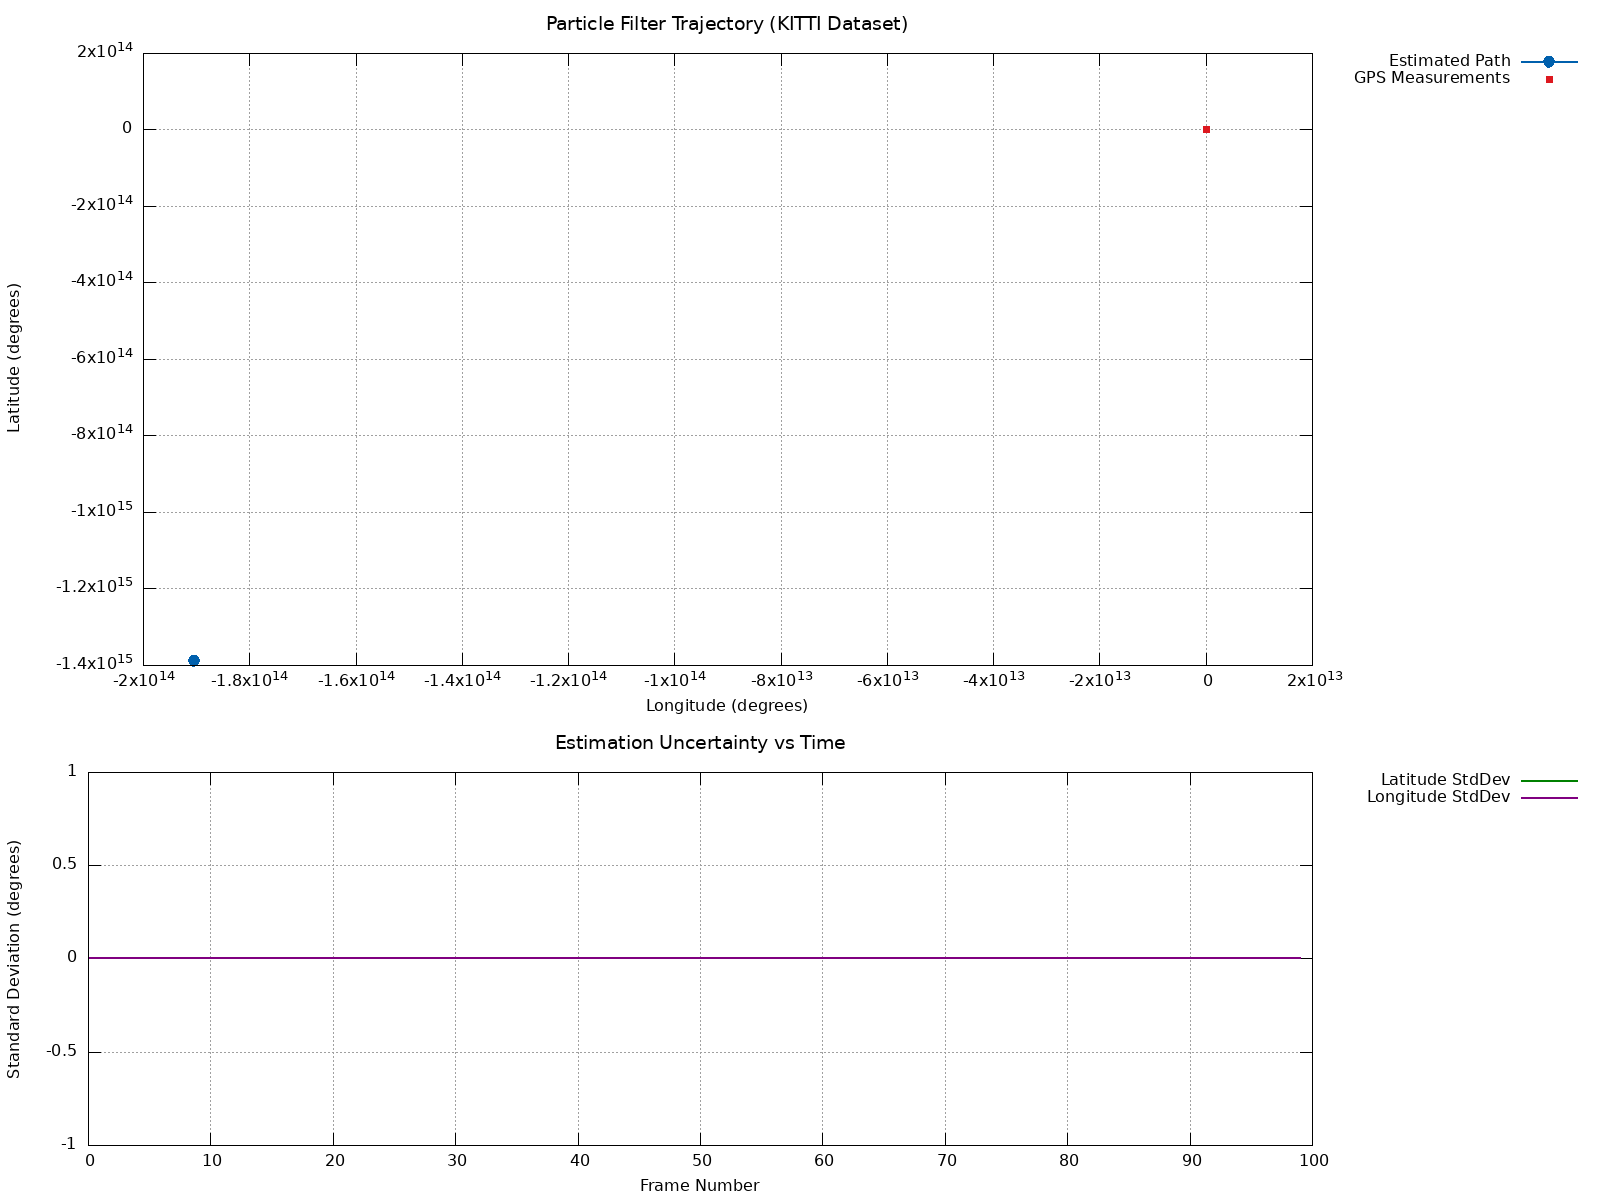
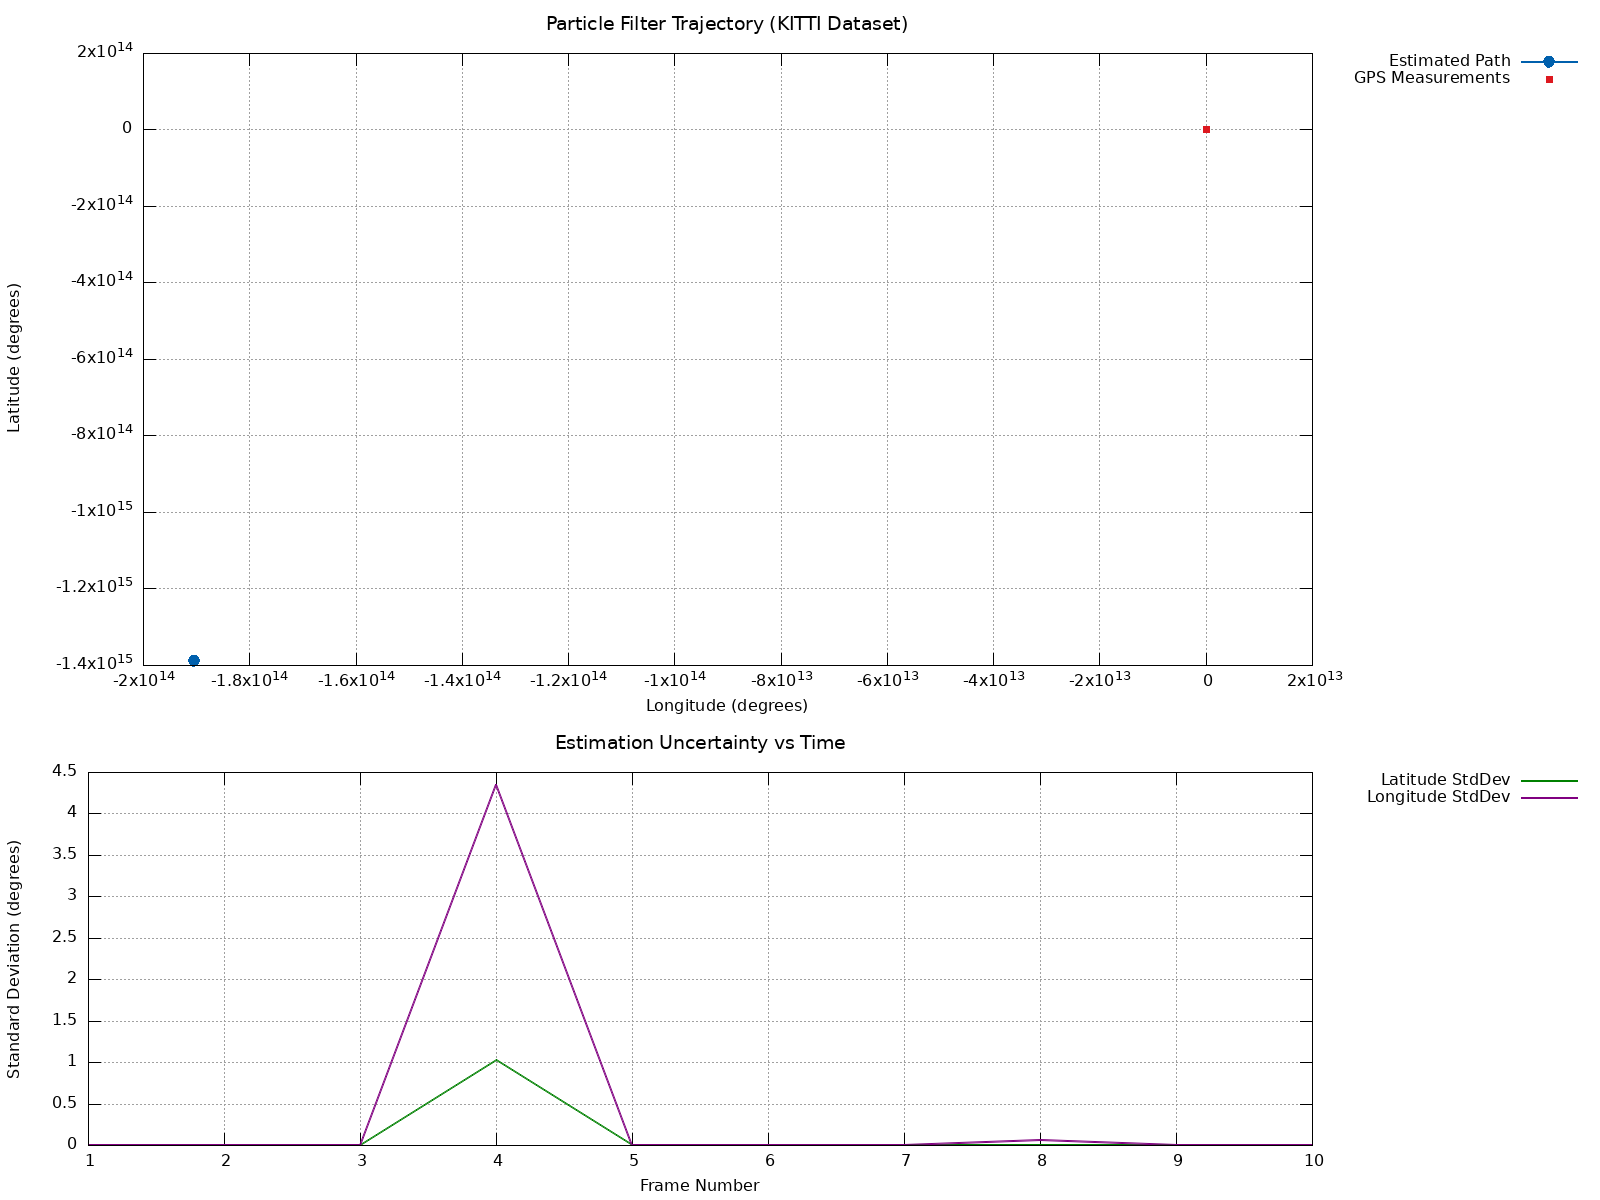
10组1次滤波

diff --git a/src/main.cpp b/src/main.cpp
@@ -190,7 +190,8 @@ int main(int argc, char** argv){
             << Pos(0) << " " << Pos(1) << "\n";
 
             // 保存误差数据
-            error_file << std::setprecision(6) << n << " " << sqrt(xv) << " " << sqrt(yv) << " " << timestamp << "\n";
+            error_file << std::setprecision(6) << frame_count << " " 
+               << sqrt(xv) << " " << sqrt(yv) << " " << timestamp << "\n";
             std::cout << "\nProcessing complete!" << std::endl;
 
             // 短暂延时，模拟实际系统的循环时间
@@ -230,12 +231,11 @@ int main(int argc, char** argv){
     
         // 执行 gnuplot 绘图命令
         system("cd ../results && gnuplot plot_commands.gp");       
-    }
 
 } catch(const std::exception& e) {
     std::cerr << "Error: " << e.what() << std::endl;
     return 1;
-}catch(smc::exception e) {
+} catch(smc::exception e) {
         cerr << e;
         exit(e.lCode);
     }
